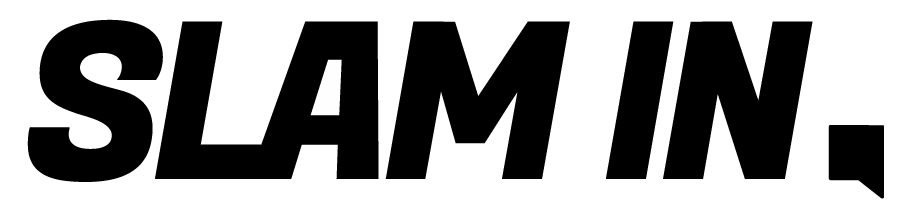
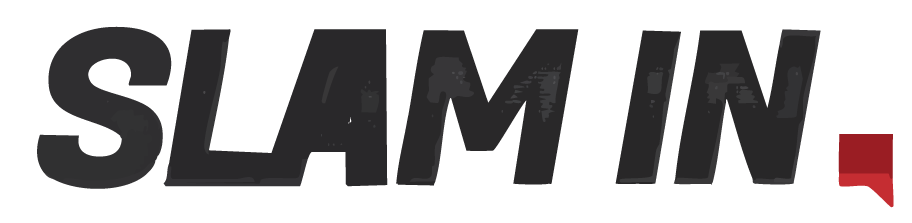
fix: Remove all CSS filters from watermark, use image as-is
✅ NO CSS FILTERS:

Removed:
❌ grayscale(100%)
❌ brightness(0.9)
❌ contrast(1.8)
❌ mix-blend-mode: multiply
❌ opacity: 0.25

Now using filigrana.png exactly
as you designed it, no modifications!

Clean image display! 🎫

diff --git a/resources/views/livewire/home/events-slider.blade.php b/resources/views/livewire/home/events-slider.blade.php
@@ -378,9 +378,7 @@
     }
     
     .ticket-watermark img {
-        filter: grayscale(100%) brightness(0.9) contrast(1.8);
-        mix-blend-mode: multiply;
-        opacity: 0.25;
+        /* No filters - use image as-is */
     }
     
     /* Make sure content is above wear effects */
